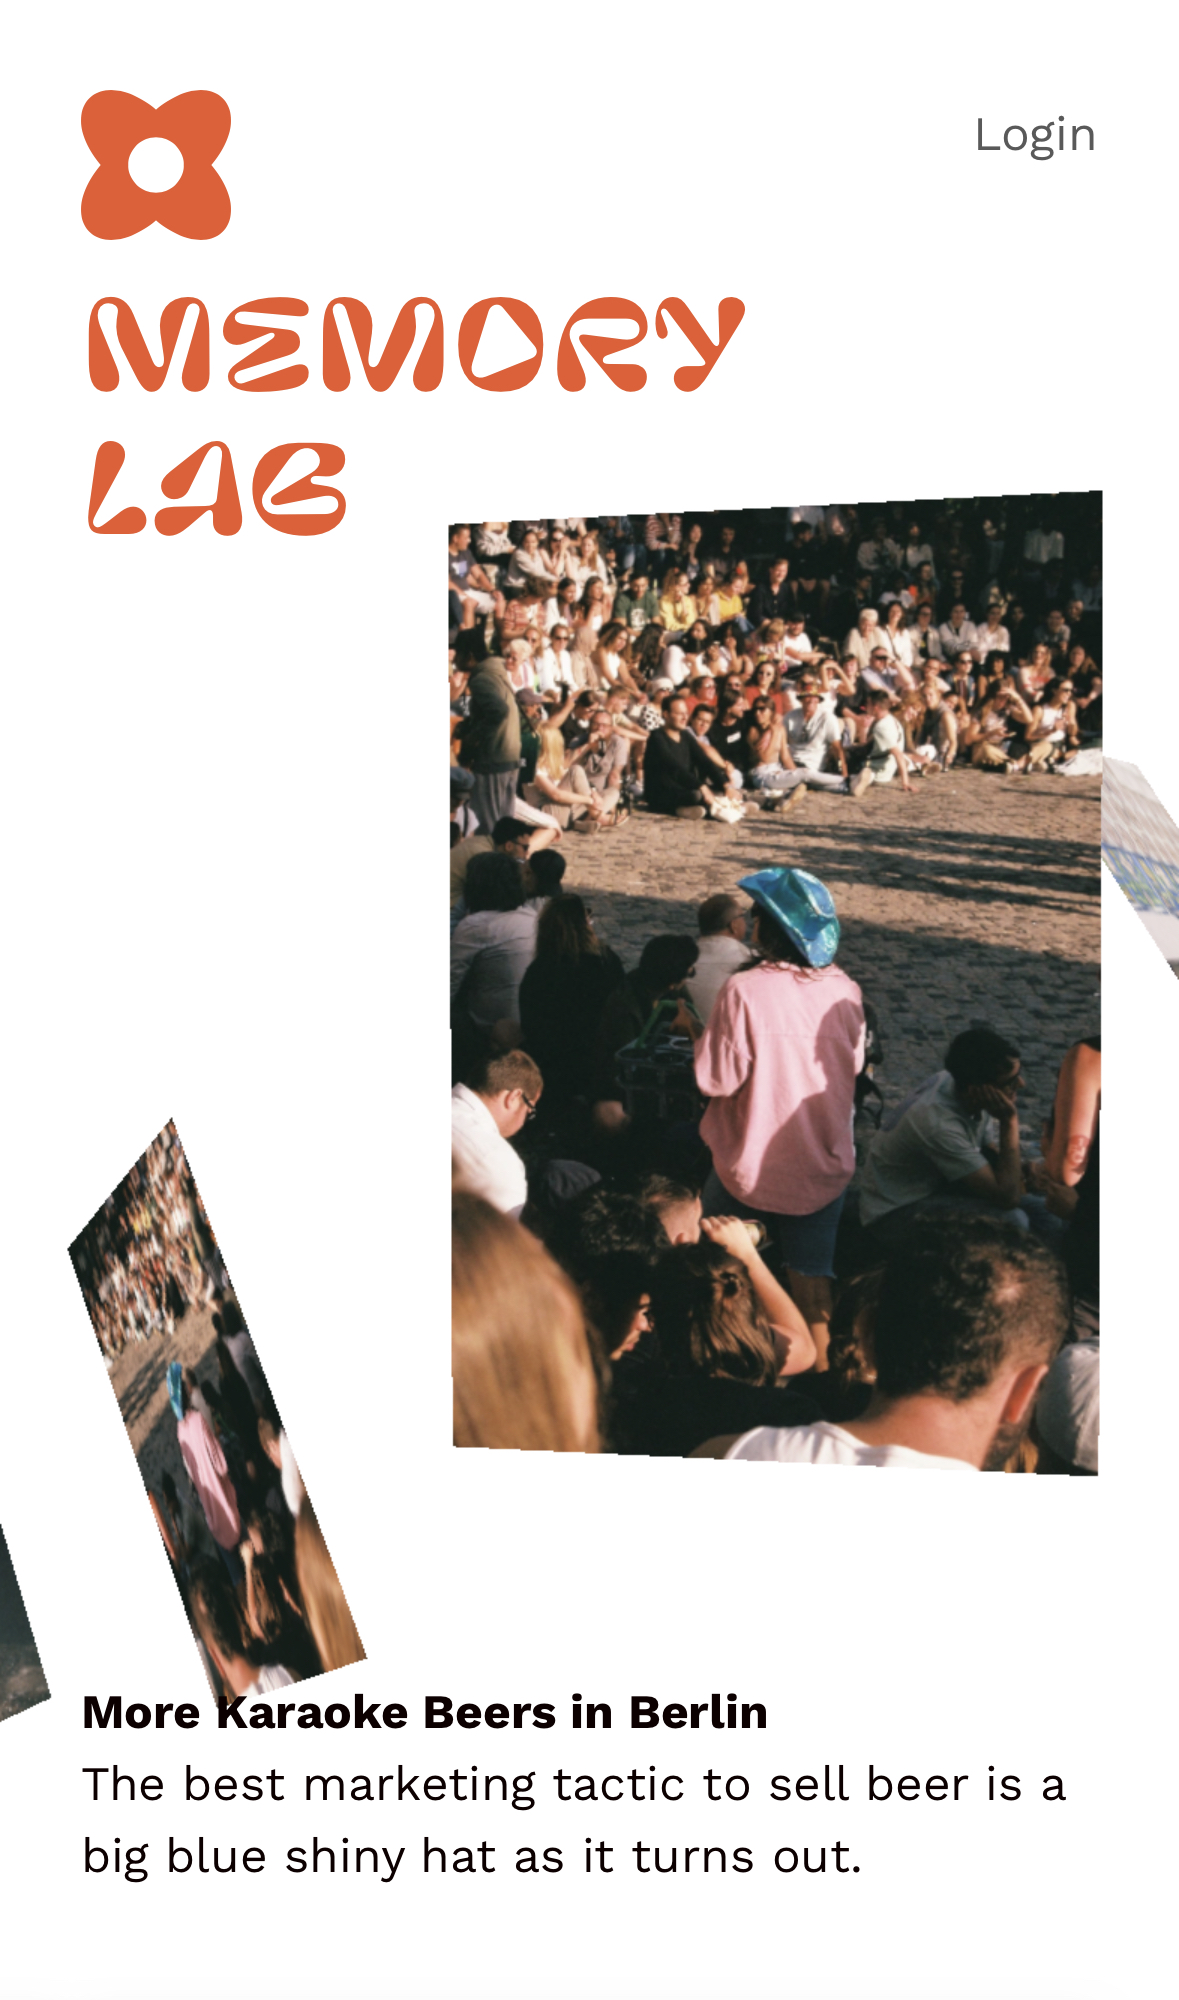
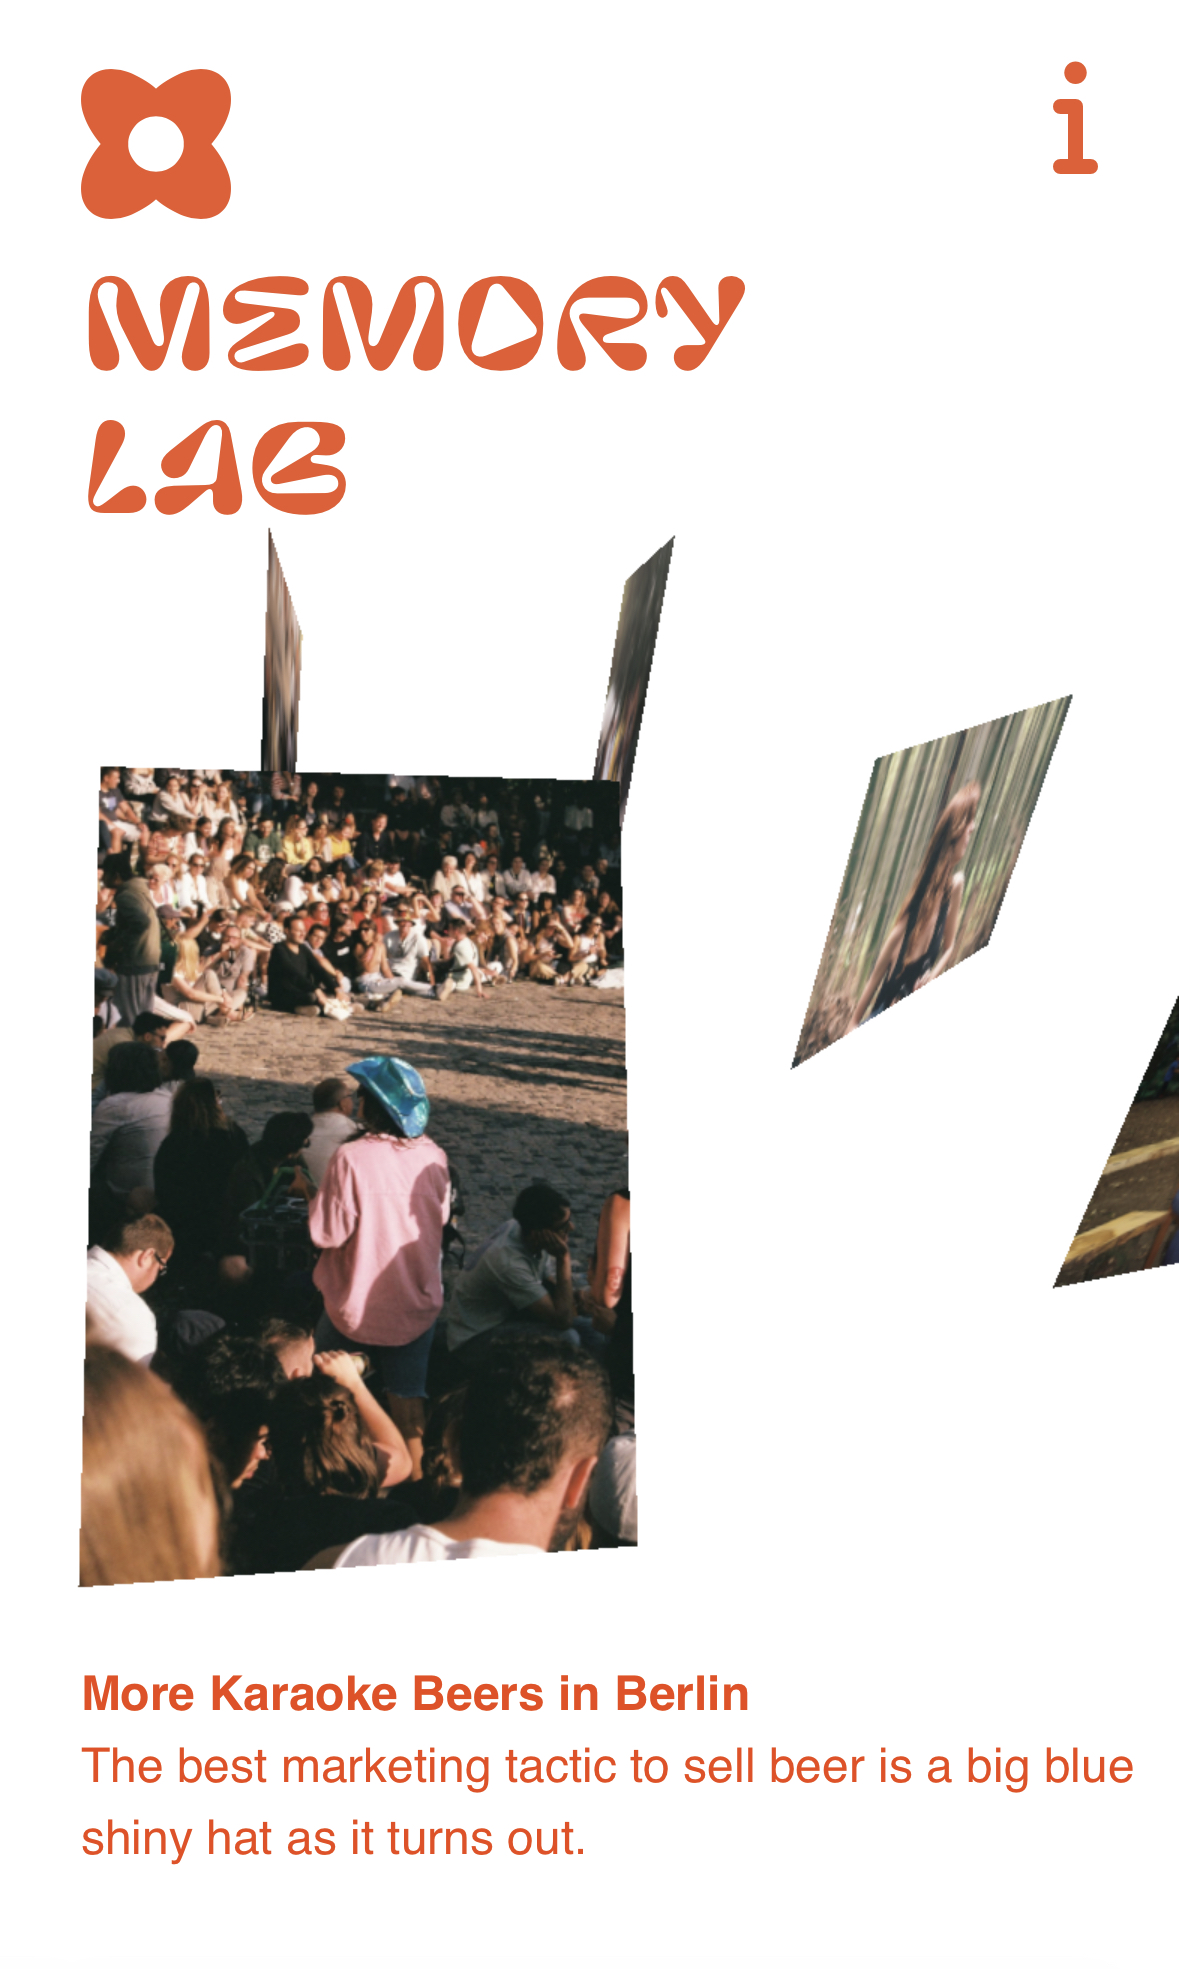
updated images for project + added bounce animation to improve UX

diff --git a/src/pages/MemoryLab.js b/src/pages/MemoryLab.js
@@ -1,4 +1,5 @@
 import React from 'react';
+import styled from 'styled-components';
 import Draggable from 'react-draggable';
 import { Link } from 'react-router-dom';
 import { PageContainer, Description, RightContainer, LeftContainer, BackButton, Title, TagsContainer, YearRoleTopicsTechTag, UpperRightLinkContainer } from './TemplateComponents/ProjectStyledTemplates';
@@ -9,6 +10,23 @@ const MemoryLab = () => {
     // Prevent the default drag image from being set
     event.preventDefault();
   };
+
+  const BouncyVertical = styled.div`
+    animation: bounce 2s ease-out;
+
+    @keyframes bounce {
+      0%   { transform: translateY(0); }
+      20%  { transform: translateY(-20px); }
+      40%  { transform: translateY(0); }
+      60%  { transform: translateY(-15px); }
+      80%  { transform: translateY(0); }
+      100% { transform: translateY(0); }
+    }
+  `;
+
+  const BouncyHorizontal = styled.div`
+    // to animate
+  `;
 
   return <>
     <Cursor />
@@ -38,19 +56,32 @@ const MemoryLab = () => {
             <YearRoleTopicsTechTag>Frontend Developer</YearRoleTopicsTechTag>
           </TagsContainer>
           <p>This project is a dynamic 3D visualization where users can upload their photography work. The main focus is on the interactive and dynamic nature of the 3D scene, with user-uploaded images being a key feature. I've always wanted a place on the inter-webs to showcase my photography. This is that.</p>
-          <br />
-          <p onClick={ () => window.open('https://github.com/ineslucas/photo_exhibit', '_blank')}>See font and icon credits on GitHub</p>
         </Description>
       </LeftContainer>
 
       <RightContainer>
-        {/* TBC animate these to be floating */}
-        <Draggable defaultPosition={{ x: 100, y: 400 }} onStart={handleStart}>
-          <img src="/images/memory_lab_wide.png" style={{ width: '300px', height: 'auto' }} />
-        </Draggable>
-        <Draggable defaultPosition={{ x: 380, y: 100 }} onStart={handleStart}>
-          <img src="/images/memory_lab_mobile.jpeg" style={{ width: '200px', height: 'auto' }} />
-        </Draggable>
+        {/* TBC animate to float */}
+        <BouncyVertical>
+          {/* Wide */}
+          <Draggable defaultPosition={{ x: 110, y: 450 }} onStart={handleStart}>
+            <img src="/images/memory_lab_wide.png" style={{ width: '300px', height: 'auto' }} />
+          </Draggable>
+
+          {/* Login */}
+          <Draggable defaultPosition={{ x: -250, y: -130 }} onStart={handleStart}>
+            <img src="/images/memory_lab_login.png" style={{ width: '200px', height: 'auto' }} />
+          </Draggable>
+
+          {/* Physics */}
+          <Draggable defaultPosition={{ x: 10, y: 320 }} onStart={handleStart}>
+            <img src="/images/memory_lab_physics.png" style={{ width: '200px', height: 'auto' }} />
+          </Draggable>
+
+          {/* Mobile */}
+          <Draggable defaultPosition={{ x: -15, y: 100 }} onStart={handleStart}>
+            <img src="/images/memory_lab_mobile.jpeg" style={{ width: '200px', height: 'auto' }} />
+          </Draggable>
+        </BouncyVertical>
       </RightContainer>
     </PageContainer>
   </>
